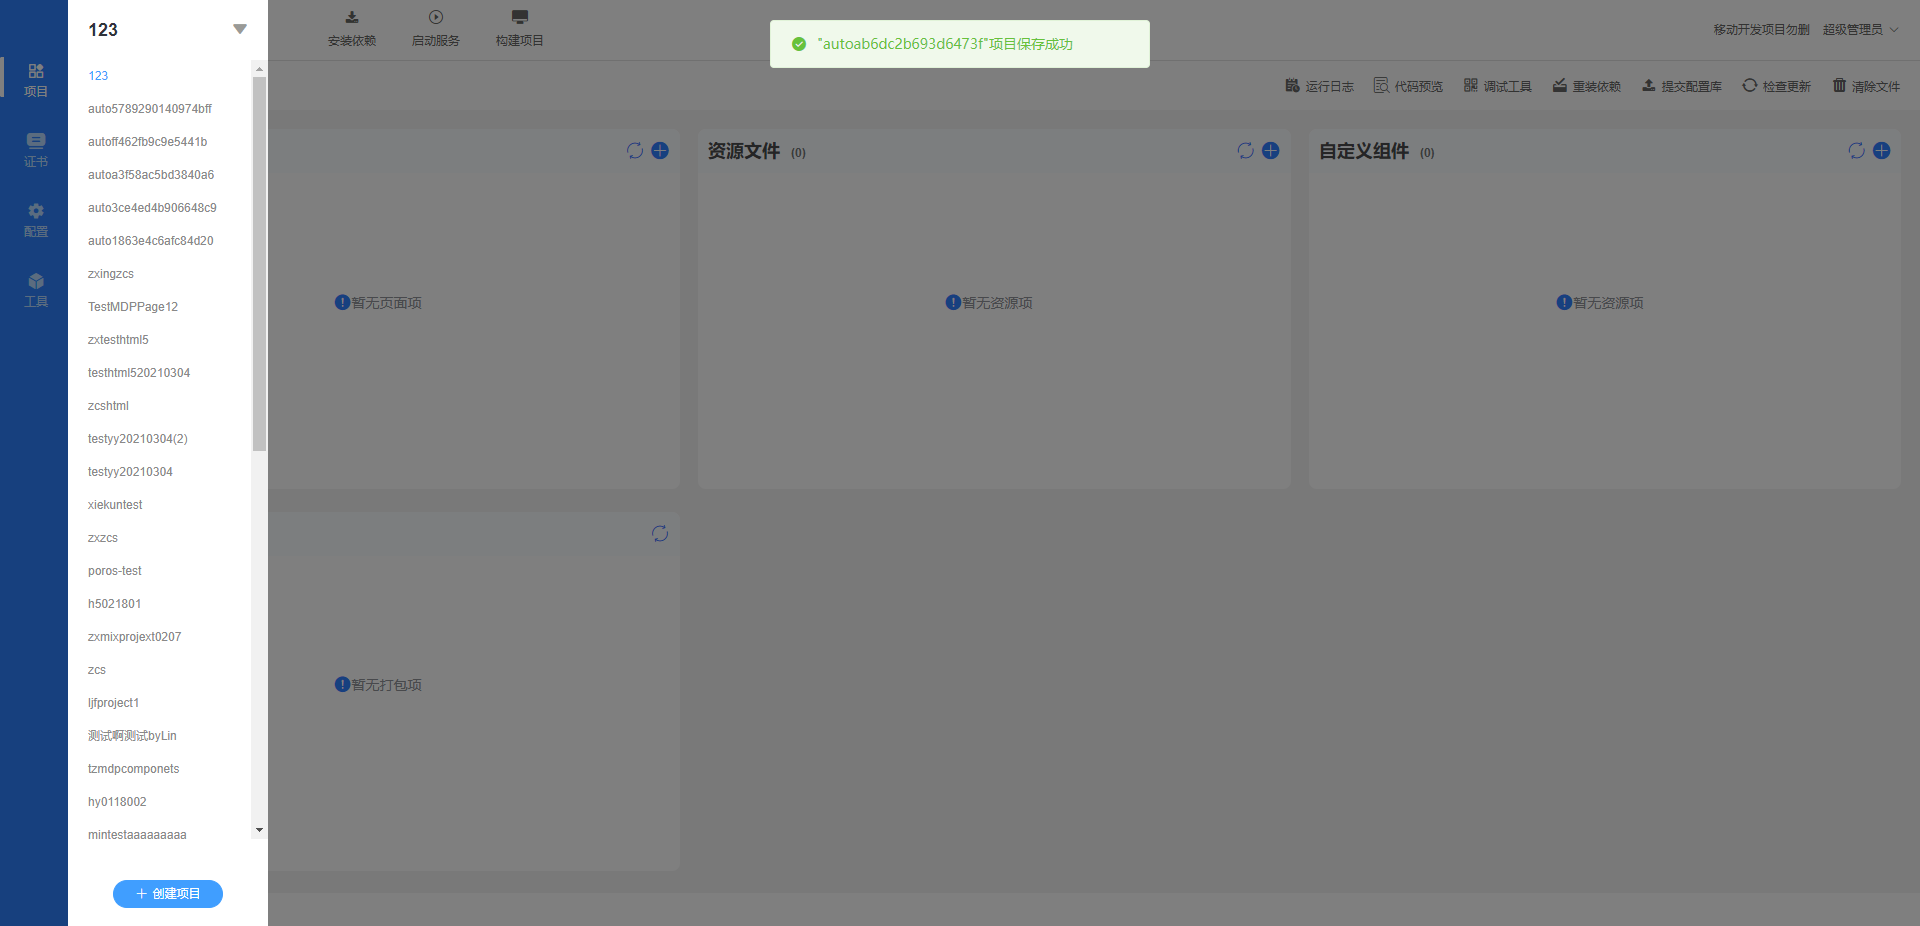
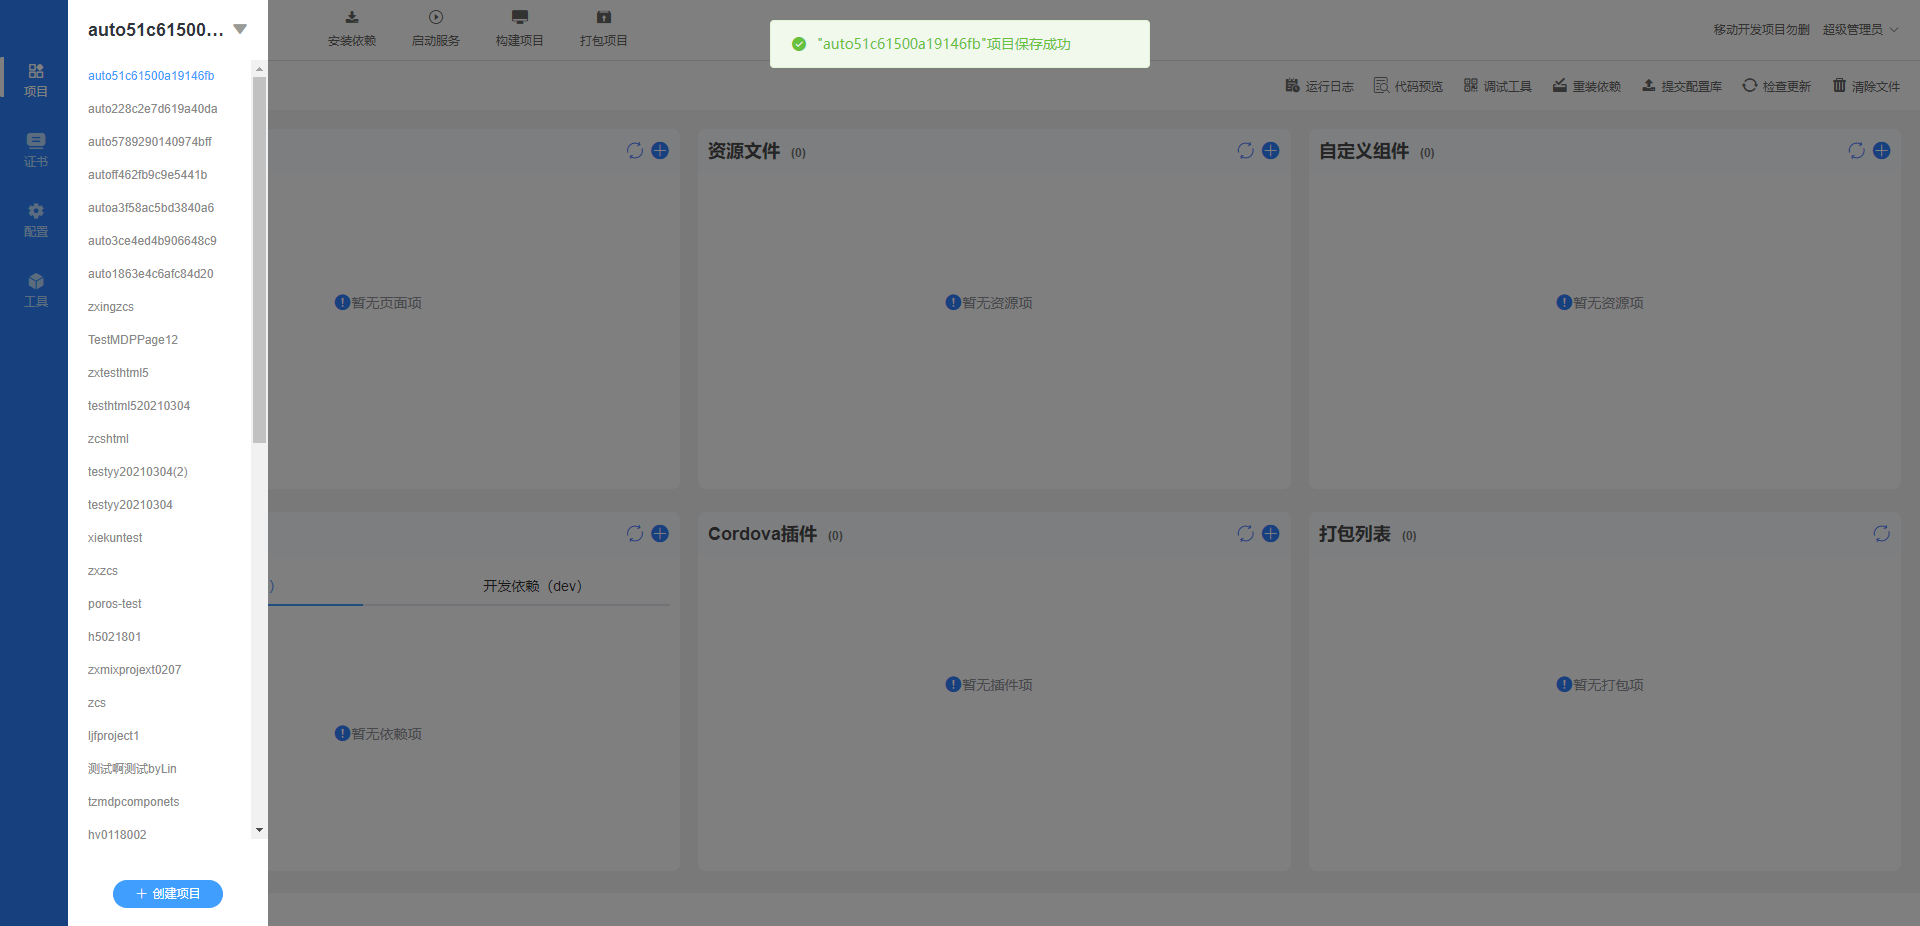
ADD

diff --git a/src/main/java/org/demo2/pages/MDPHomePage.java b/src/main/java/org/demo2/pages/MDPHomePage.java
@@ -169,7 +169,100 @@ public class MDPHomePage extends BasePage {
         return element(By.xpath("/html/body/div[1]/div[2]/div[4]/div/div[3]/div/button[2]"));
     }
 
+    /**
+     * 创建成功后提示框
+     * @return 元素
+     */
     public WebElement alertAfterCreateAProject(){
         return element(By.xpath("//div[@class='el-message el-message--success']"));
     }
+
+    /**
+     * 安装公共依赖按钮
+     * @return 元素
+     */
+    public WebElement installProjectDependencies(){
+        return element(By.xpath("/html/body/div[1]/div[2]/div[1]/div[1]/div[2]/ul/li[1]/div/span[1]"));
+    }
+
+    /**
+     * 返回工作区按钮
+     * @return 元素
+     */
+    public WebElement backWorkSpaceButton(){
+        return element(By.xpath("//div[@class='back-workspace']"));
+    }
+
+    /**
+     * 添加页面按钮
+     * @return 元素
+     */
+    public WebElement addPageButton(){
+        return element(By.xpath("/html/body/div[1]/div[2]/div[2]/div[1]/div[1]/div/span[2]"));
+    }
+
+    /**
+     * 添加资源文件按钮
+     * @return 元素
+     */
+    public WebElement addResourceFileButton(){
+        return element(By.xpath("/html/body/div[1]/div[2]/div[2]/div[2]/div[1]/div/span[2]"));
+    }
+
+    /**
+     * 添加自定义组件的按钮
+     * @return 元素
+     */
+    public WebElement addCustomComponentsButton(){
+        return element(By.xpath("/html/body/div[1]/div[2]/div[2]/div[3]/div[1]/div/span[2]"));
+    }
+
+    /**
+     * 新增依赖
+     * @return 元素
+     */
+    public WebElement addNewDependenciesButton(){
+        return element(By.xpath("/html/body/div[1]/div[2]/div[2]/div[4]/div[1]/div/span[2]"));
+    }
+
+    /**
+     * 添加Cordova插件
+     * @return 元素
+     */
+    public WebElement addCordovaPlugin(){
+        return element(By.xpath("/html/body/div[1]/div[2]/div[2]/div[5]/div[1]/div/span[2]"));
+    }
+    /* 新增页面 的元素*/
+    /**
+     * 新增页面的名称
+     * @return 元素
+     */
+    public WebElement pageNameInput(){
+        return element(By.xpath("//input[@placeholder='请输入页面文件名，如：login']"));
+    }
+
+    /**
+     * 新增页面的标题
+     * @return 元素
+     */
+    public WebElement pageTitleInput(){
+        return element(By.xpath("//input[@placeholder='请输入页面标题，如：登陆']"));
+    }
+
+    /**
+     * 新增页面的存放目录
+     * @return 元素
+     */
+    public WebElement saveFolderInput(){
+        return element(By.xpath("//input[@placeholder='请输入页面存放目录，如：dir1或dir1/dir2']"));
+    }
+
+    /**
+     * 新增页面的确认按钮
+     * @return 元素
+     */
+    public WebElement saveNewPageButton(){
+        return element(By.xpath("/html/body/div[1]/div[2]/div[5]/div/div[3]/div/button[2]"));
+    }
+
 }

diff --git a/src/main/java/org/demo2/handle/MDPHomePageHandle.java b/src/main/java/org/demo2/handle/MDPHomePageHandle.java
@@ -11,6 +11,7 @@ import org.openqa.selenium.WebElement;
 import java.awt.*;
 import java.awt.datatransfer.StringSelection;
 import java.awt.event.KeyEvent;
+import java.util.UUID;
 
 public class MDPHomePageHandle extends HandleBase {
     private Logger logger = Logger.getLogger(MDPHomePageHandle.class.getName());
@@ -179,6 +180,10 @@ public class MDPHomePageHandle extends HandleBase {
         mdpHomePage.click(mdpHomePage.ConfirmCreateAProject());
     }
 
+    /**
+     * 创建项目是否成功
+     * @return 是否成功
+     */
     public boolean assertAfterCreateProject(){
         try {
             mdpHomePage.alertAfterCreateAProject();
@@ -186,5 +191,85 @@ public class MDPHomePageHandle extends HandleBase {
         }catch (Exception e){
             return false;
         }
+    }
+
+    /**
+     * 点击安装工程依赖
+     */
+    public void clickInstallProjectDependencies(){
+        mdpHomePage.click(mdpHomePage.installProjectDependencies());
+    }
+
+    /**
+     * 点击返回工作区
+     */
+    public void clickBackWorkSpaceButton(){
+        mdpHomePage.click(mdpHomePage.backWorkSpaceButton());
+    }
+
+    /**
+     * 点击添加新也页面
+     */
+    public void clickAddNewPage(){
+        mdpHomePage.click(mdpHomePage.addPageButton());
+    }
+
+    /**
+     * 点击添加资源文件按钮
+     */
+    public void clickAddResourceFileButton(){
+        mdpHomePage.click(mdpHomePage.addResourceFileButton());
+    }
+
+    /**
+     * 点击新增自定义组件按钮
+     */
+    public void clickAddCustomComponentButton(){
+        mdpHomePage.click(mdpHomePage.addCustomComponentsButton());
+    }
+
+    /**
+     * 点击新增依赖
+     */
+    public void clickAddNewDependenciesButton(){
+        mdpHomePage.click(mdpHomePage.addNewDependenciesButton());
+    }
+
+    /**
+     * 新增Cordova插件
+     */
+    public void clickAddCordovaPlugin(){
+        mdpHomePage.click(mdpHomePage.addCordovaPlugin());
+    }
+
+    /**
+     * 输入新页面的标题
+     * @param pageName 页面名称
+     */
+    public void inputPageName(String pageName){
+        mdpHomePage.sendKey(mdpHomePage.pageNameInput(),"auto"+pageName);
+    }
+
+    /**
+     * 输入新页面标题
+     */
+    public void inputPageName(){
+        String pageName = "auto"+UUID.randomUUID().toString().replace("-", "");
+        mdpHomePage.sendKey(mdpHomePage.pageNameInput(), pageName);
+    }
+
+    /**
+     * 输入保存文件夹名称
+     * @param folderName 保存文件夹名
+     */
+    public void inputPageSaveFolder(String folderName){
+        mdpHomePage.sendKey(mdpHomePage.saveFolderInput(), "auto"+folderName);
+    }
+
+    /**
+     * 点击保存页面按钮
+     */
+    public void clickSaveNewPageButton(){
+        mdpHomePage.click(mdpHomePage.saveNewPageButton());
     }
 }

diff --git a/src/main/java/org/demo2/RunCases.java b/src/main/java/org/demo2/RunCases.java
@@ -19,6 +19,8 @@ public class RunCases {
         DriverBase driverBase = new DriverBase("Chrome");
         driverBase.getDriver().manage().window().maximize();
         driverBase.getUrl("http://10.10.10.109/web/cap/ptc/login/CapLogin.jsp");
+
+
         LoginCapPageHandle loginCapPageHandle = new LoginCapPageHandle(driverBase);
         loginCapPageHandle.inputUsername("CapSuperAdmin");
         loginCapPageHandle.inputPassword("hello");
@@ -29,6 +31,7 @@ public class RunCases {
         }catch (Exception e){
             e.printStackTrace();
         }
+
 
         CapHomePageHandle capHomePageHandle = new CapHomePageHandle(driverBase);
         try{
@@ -41,6 +44,7 @@ public class RunCases {
         capHomePageHandle.ClickProjectModeling();
         capHomePageHandle.ClickMDProject();
         capHomePageHandle.switchToNewHandle();
+
 
         MDPHomePageHandle mdpHomePageHandle = new MDPHomePageHandle(driverBase);
         if (mdpHomePageHandle.onPage()){
@@ -67,10 +71,15 @@ public class RunCases {
         mdpHomePageHandle.inputServerAddr("127.0.0.1:8080","/api");
         mdpHomePageHandle.clickConfirmCreateAProject();
         if (mdpHomePageHandle.assertAfterCreateProject()){
-            mdpHomePageHandle.screenShot("保存项目成功");
+            mdpHomePageHandle.screenShot("创建项目成功");
         }else {
-            mdpHomePageHandle.screenShot("保存项目失败");
+            mdpHomePageHandle.screenShot("创建项目失败");
         }
+        mdpHomePageHandle.ClickMDPProjectList();
+        Thread.sleep(2000);
+        mdpHomePageHandle.clickInstallProjectDependencies();
+        mdpHomePageHandle.clickBackWorkSpaceButton();
+
     }
 }
 

diff --git a/src/main/java/org/demo2/base/BasePage.java b/src/main/java/org/demo2/base/BasePage.java
@@ -43,8 +43,8 @@ public class BasePage {
     }
 
     /**
-     * Click
-     * @param element
+     * Click 点击
+     * @param element 元素
      */
     public void click(WebElement element){
         if (element != null){
@@ -69,10 +69,19 @@ public class BasePage {
             logger.error("["+this.getTitle()+"]"+"输入的元素不存在");
         }
     }
+
+    /**
+     * 获取当前页面的title
+     * @return title
+     */
     public String getTitle(){
         return this.driver.getDriver().getTitle();
     }
 
+    /**
+     * 获取所有的标签页句柄
+     * @return 句柄集合
+     */
     public Set<String> getWindowHandles(){
         try{
             Set<String> handles = this.driver.getDriver().getWindowHandles();
@@ -86,6 +95,10 @@ public class BasePage {
         }
     }
 
+    /**
+     * 获取当前的句柄
+     * @return 句柄
+     */
     public String getWindowHandle(){
         try{
             String handle = this.driver.getDriver().getWindowHandle();

diff --git a/src/main/java/org/demo2/base/HandleBase.java b/src/main/java/org/demo2/base/HandleBase.java
@@ -9,8 +9,7 @@ import org.openqa.selenium.WebDriver;
 
 import java.io.File;
 import java.io.IOException;
-import java.util.Set;
-import java.util.UUID;
+
 
 public class HandleBase {
     private static Logger logger = Logger.getLogger(HandleBase.class.getName());
